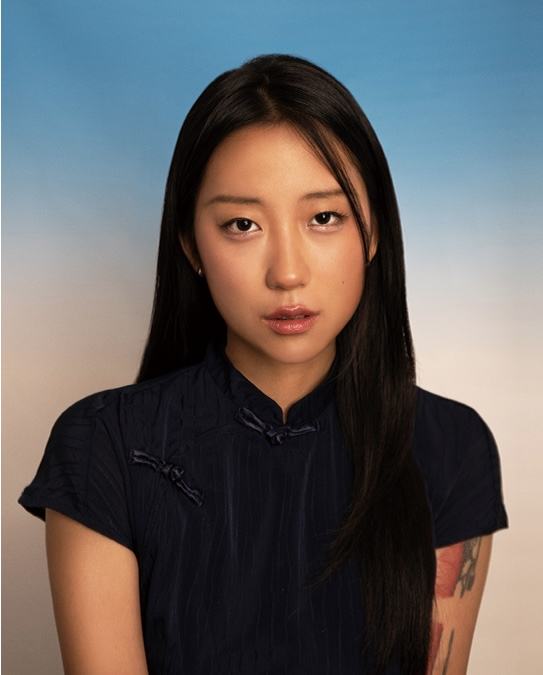
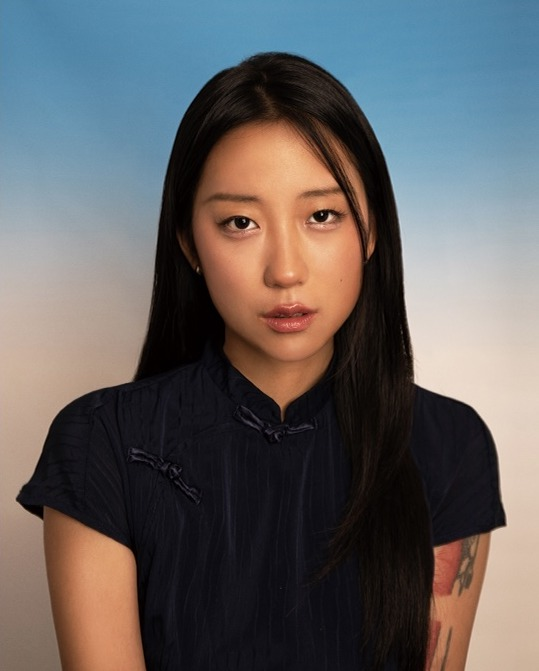
Frame photos: trim white edge on portrait, sharp smile crop from original

diff --git a/index.html b/index.html
@@ -124,8 +124,8 @@
       <div class="photo-frame">
       <div class="photo-carousel" id="photo-carousel">
         <div class="carousel-track" id="carousel-track">
-          <img class="carousel-slide" src="assets/portrait-main.jpg" alt="Cai (“Cyra”) Dong">
-          <img class="carousel-slide" src="assets/smilepic_portrait.jpg?v=20261011b" alt="Cai (“Cyra”) Dong smiling">
+          <img class="carousel-slide" src="assets/portrait-main.jpg?v=2" alt="Cai (“Cyra”) Dong">
+          <img class="carousel-slide" src="assets/smile-frame.jpg" alt="Cai (“Cyra”) Dong smiling">
         </div>
         <button class="carousel-btn carousel-prev" id="carousel-prev" type="button">‹</button>
         <button class="carousel-btn carousel-next" id="carousel-next" type="button">›</button>
@@ -512,6 +512,6 @@
   <button type="button" class="lb-btn lb-next" id="lb-next" aria-label="Next">›</button>
 </div>
 
-<script src="app.js?v=20261120l"></script>
+<script src="app.js?v=20261120m"></script>
 </body>
 </html>
